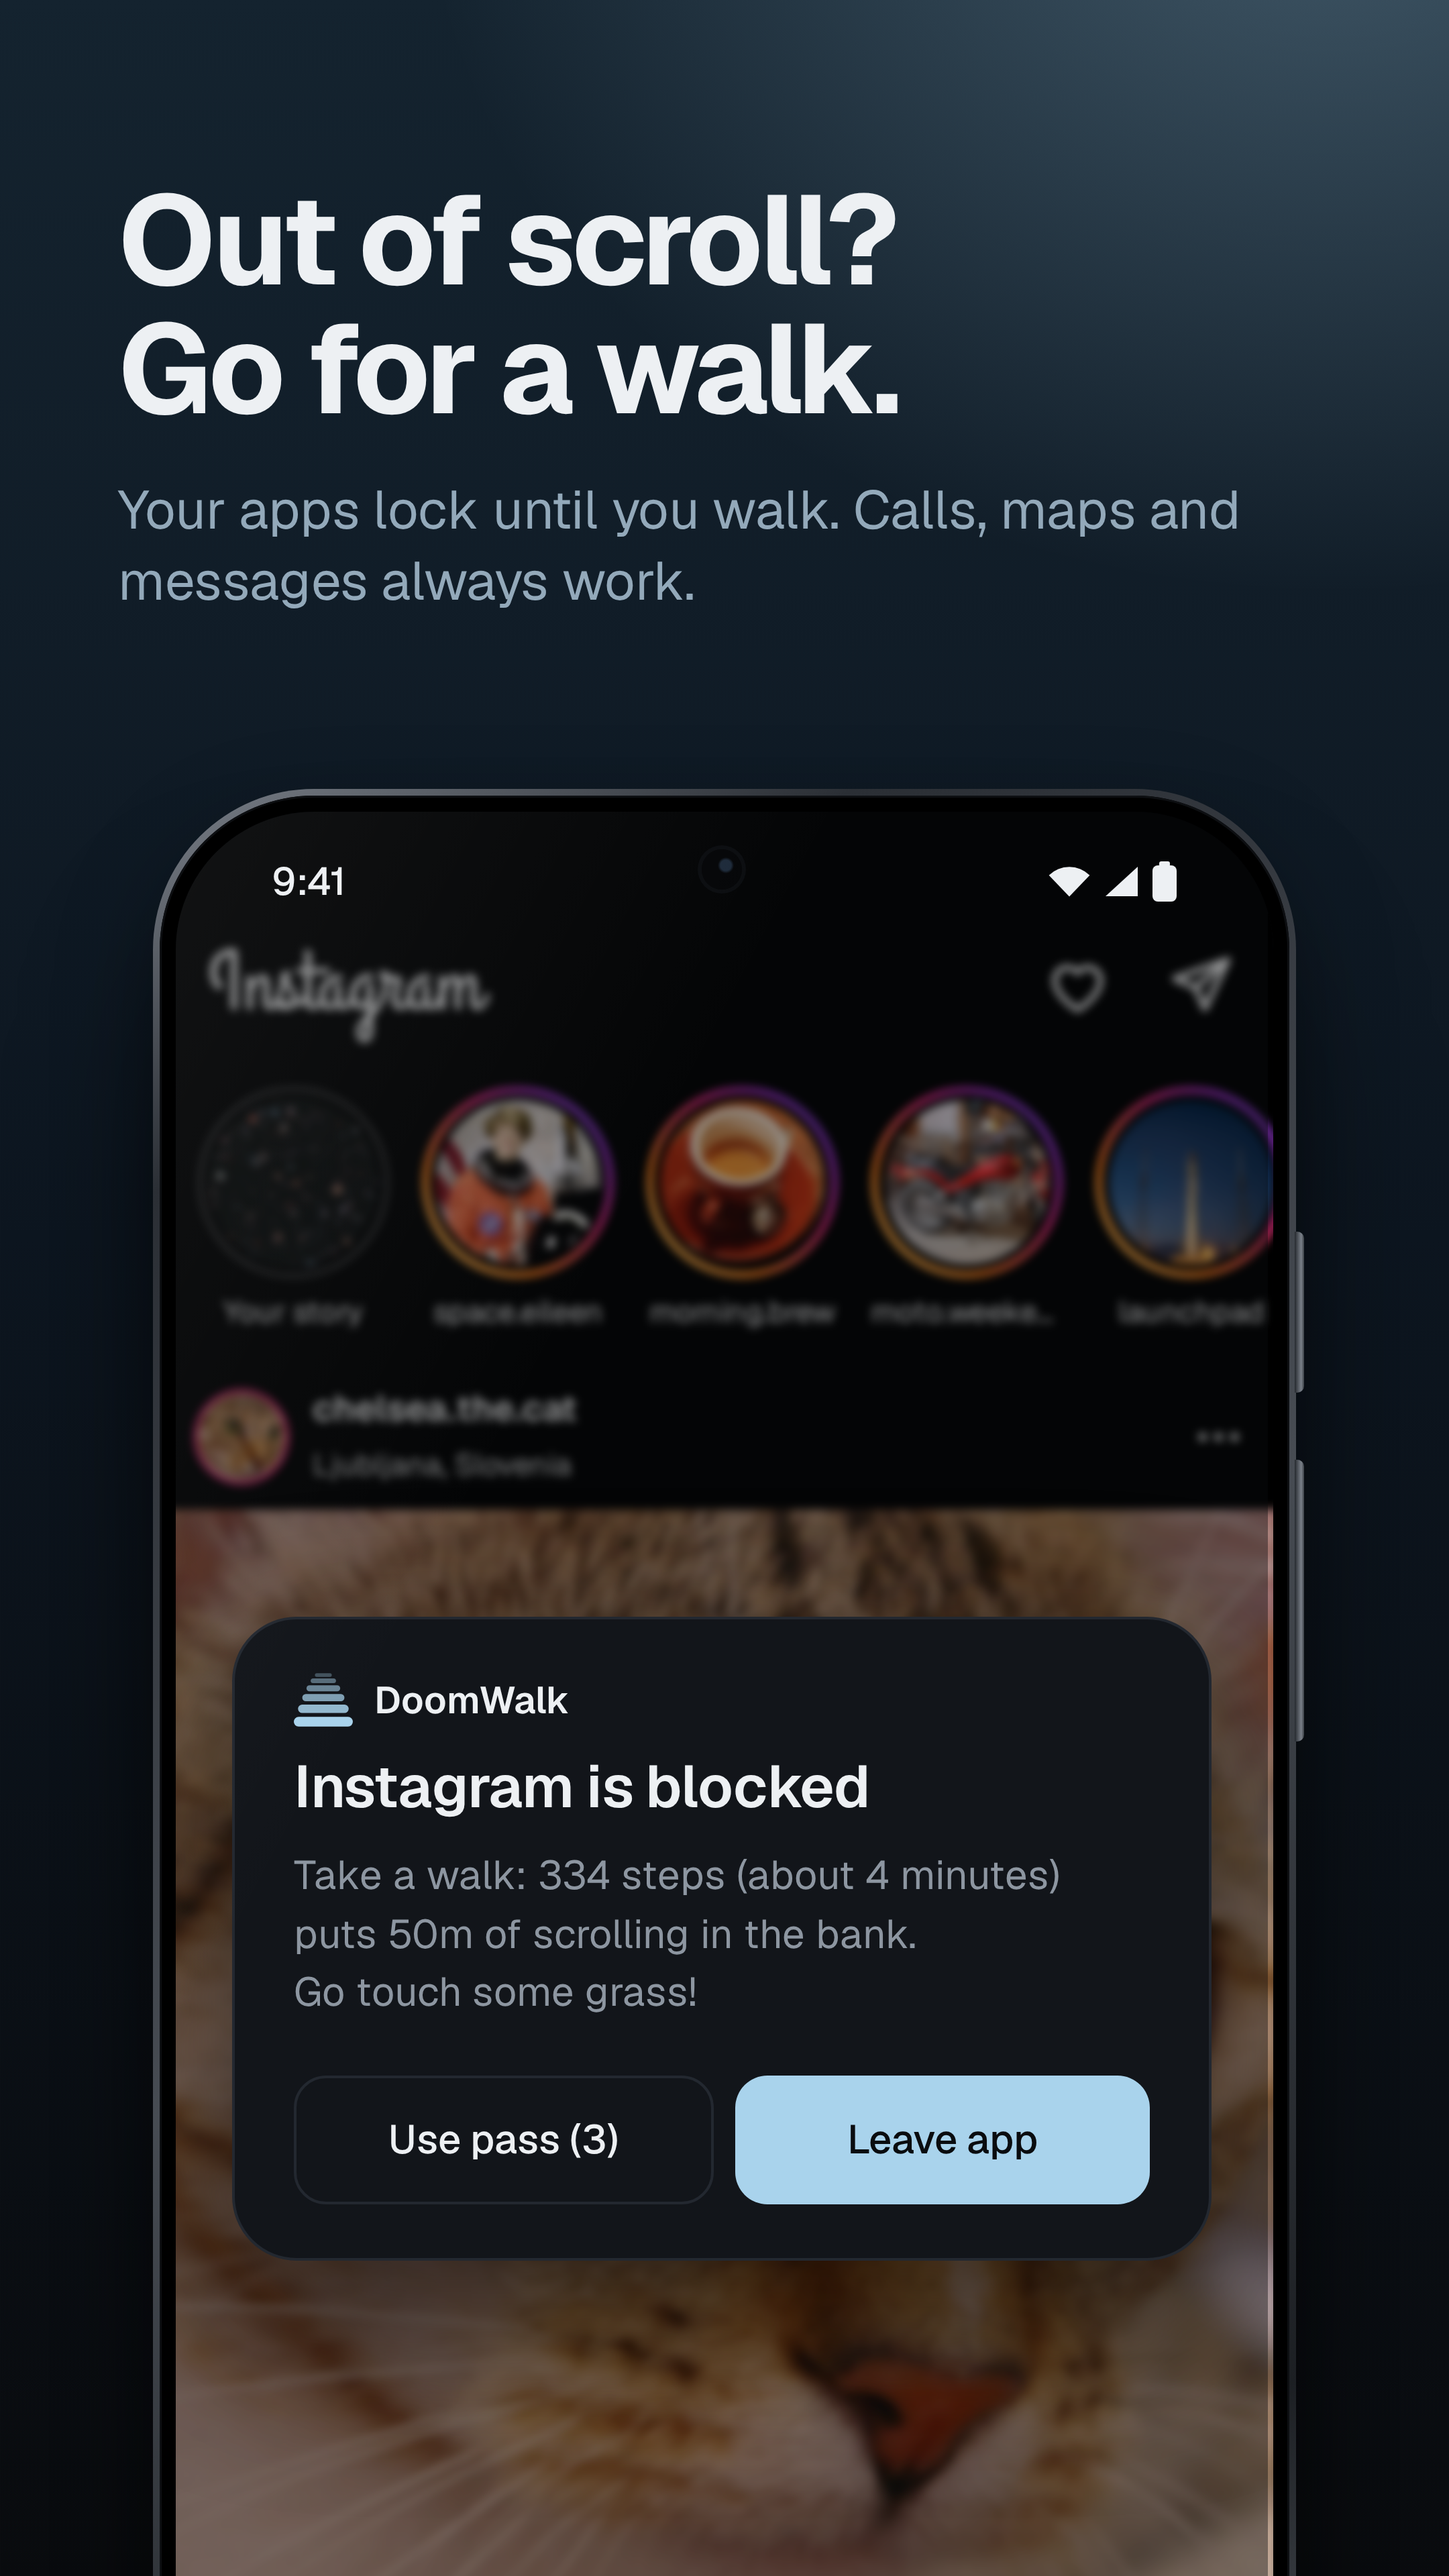
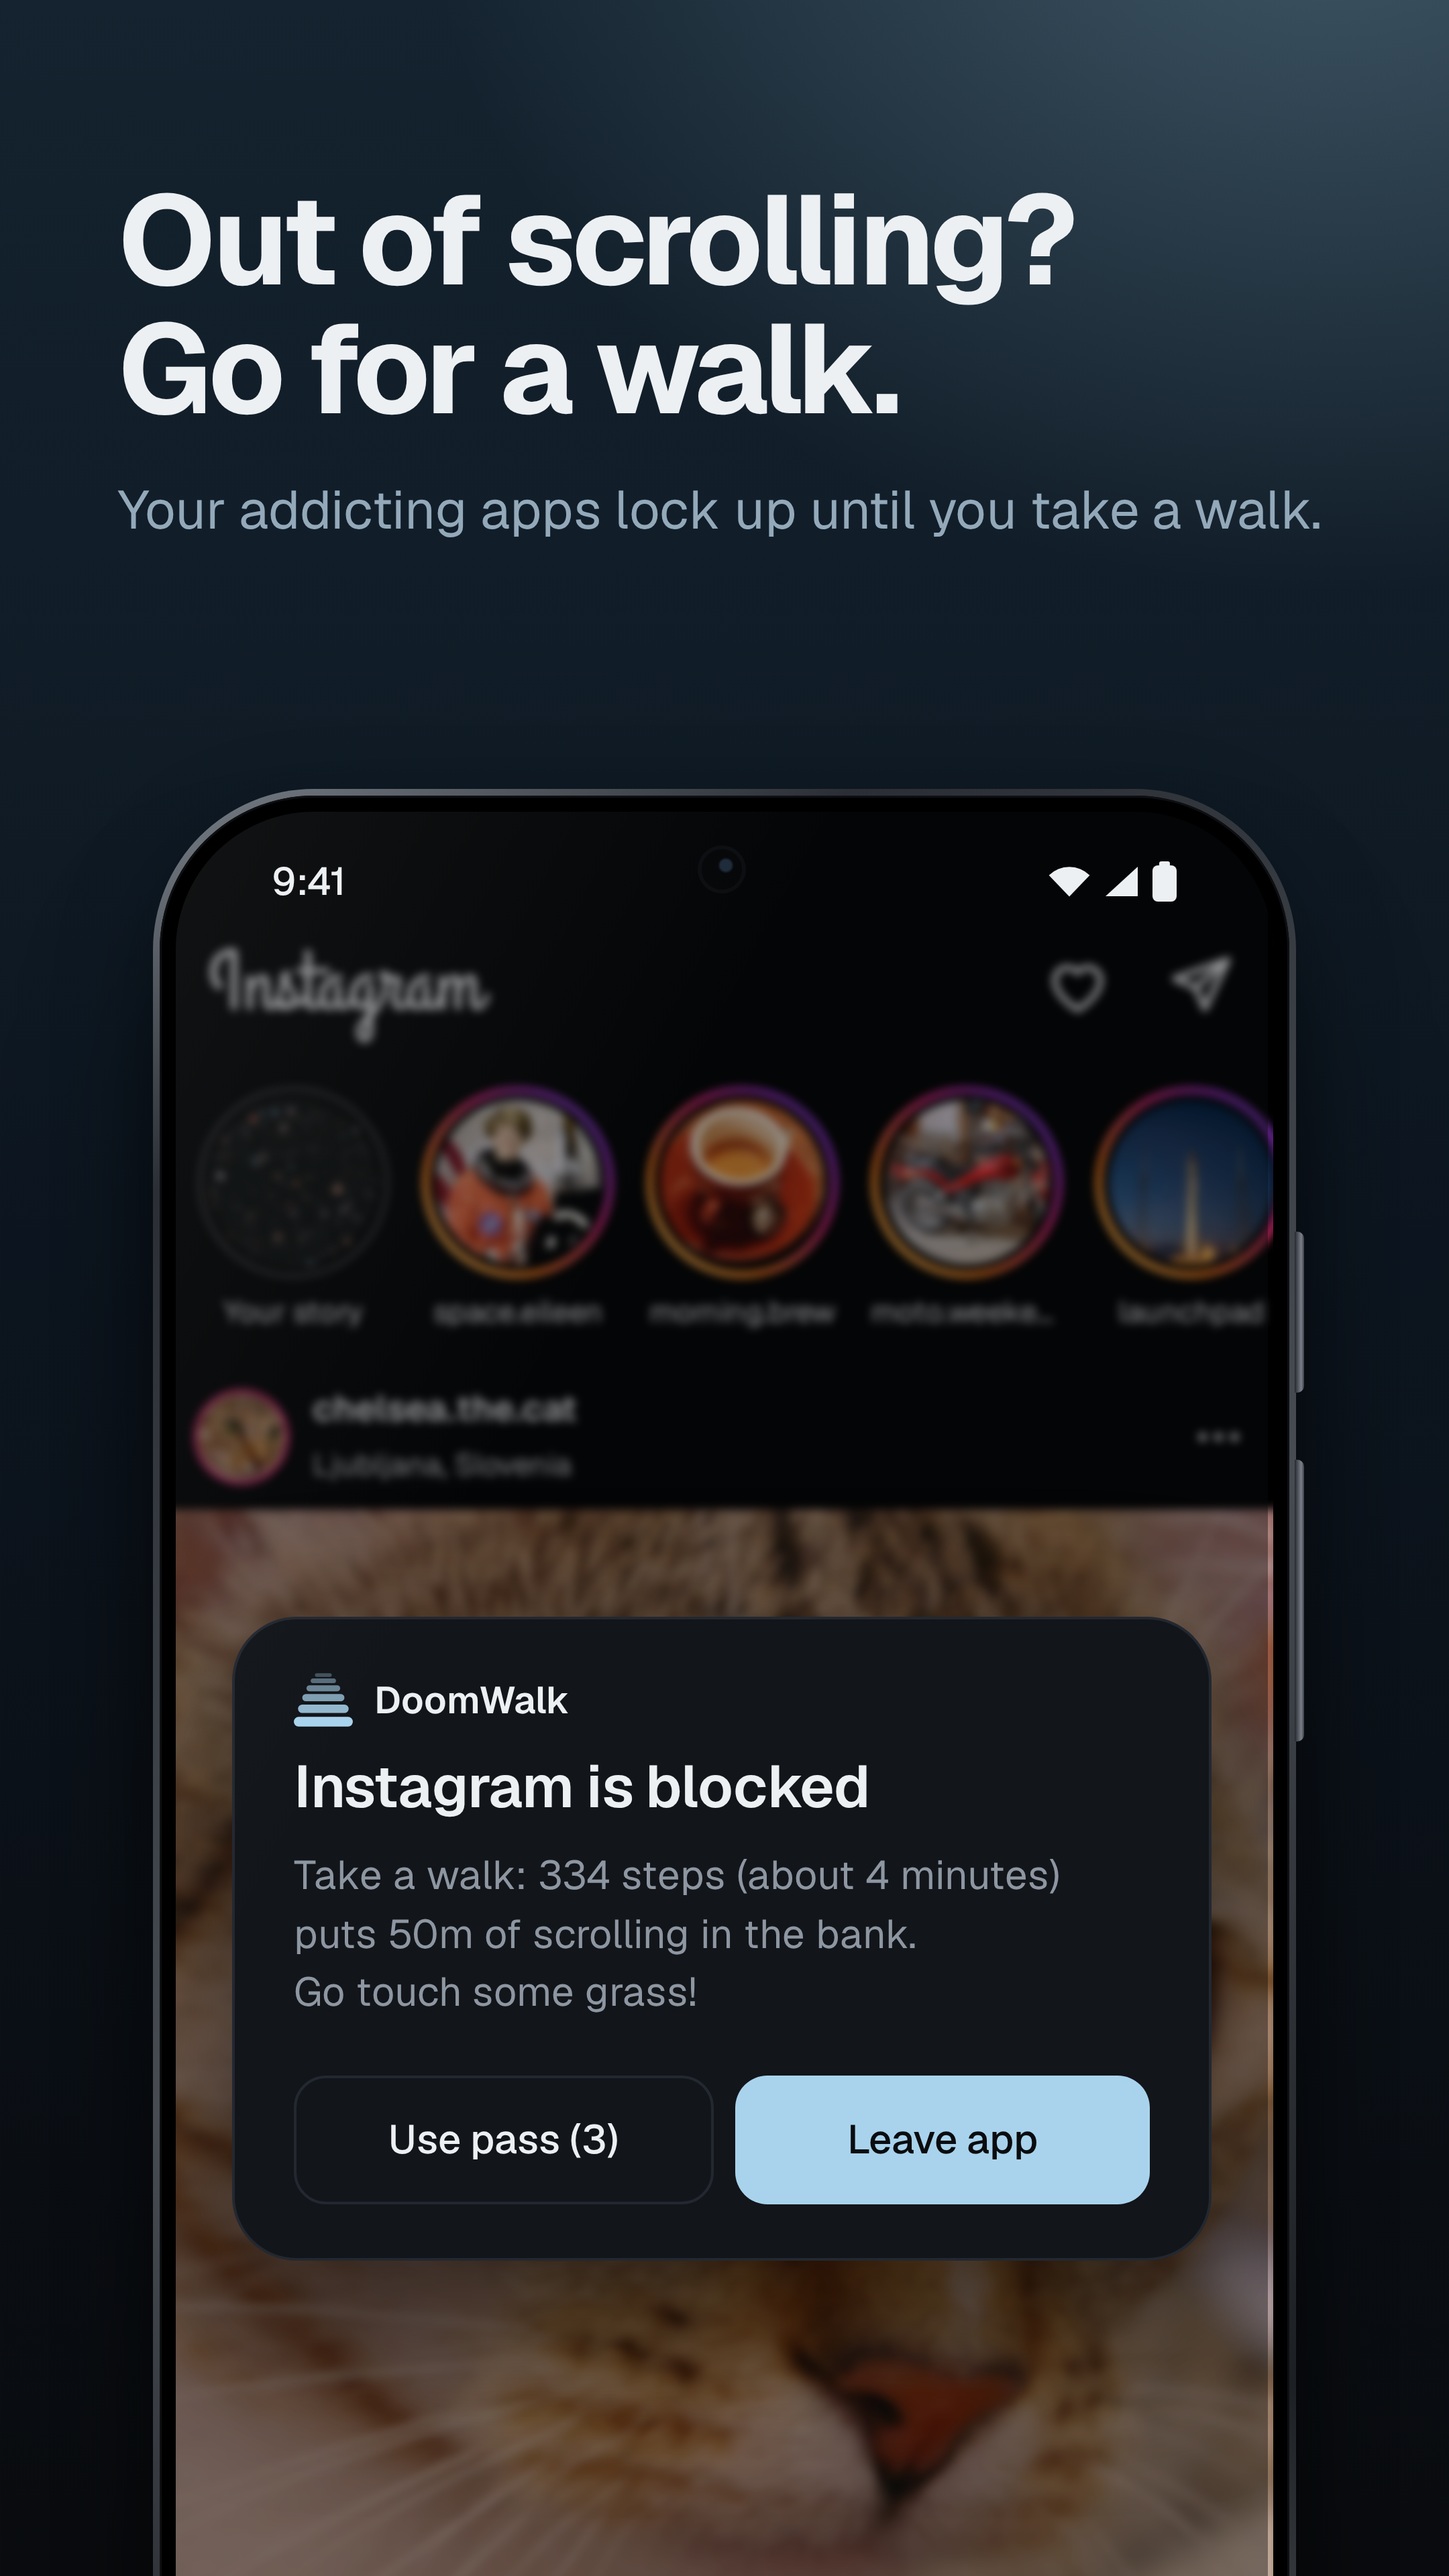
update blocked screenshot copy
Claude-Session: https://claude.ai/code/session_01FiGAJgbFDwSs6t3Lph7Pas

Changed region(s): [[0.0931, 0.1875, 0.7755, 0.25], [0.5583, 0.0625, 0.7444, 0.125], [0.8065, 0.1875, 0.8995, 0.2188]]

diff --git a/docs/graphics/src/graphics.html b/docs/graphics/src/graphics.html
@@ -262,8 +262,8 @@ body { margin: 0; background: #333; font-family: Geist, sans-serif; color: var(-
 <!-- 2. Blocked -->
 <section class="shot" id="s2">
   <div class="head">
-    <h1>Out of scroll?<br>Go for a walk.</h1>
-    <p>Your apps lock until you walk. Calls, maps and messages always work.</p>
+    <h1>Out of scrolling?<br>Go for a walk.</h1>
+    <p>Your addicting apps lock up until you take a walk.</p>
   </div>
   <div class="phone" data-phone><div class="bezel"><div class="screen"><div class="app">
     <div class="ig">
